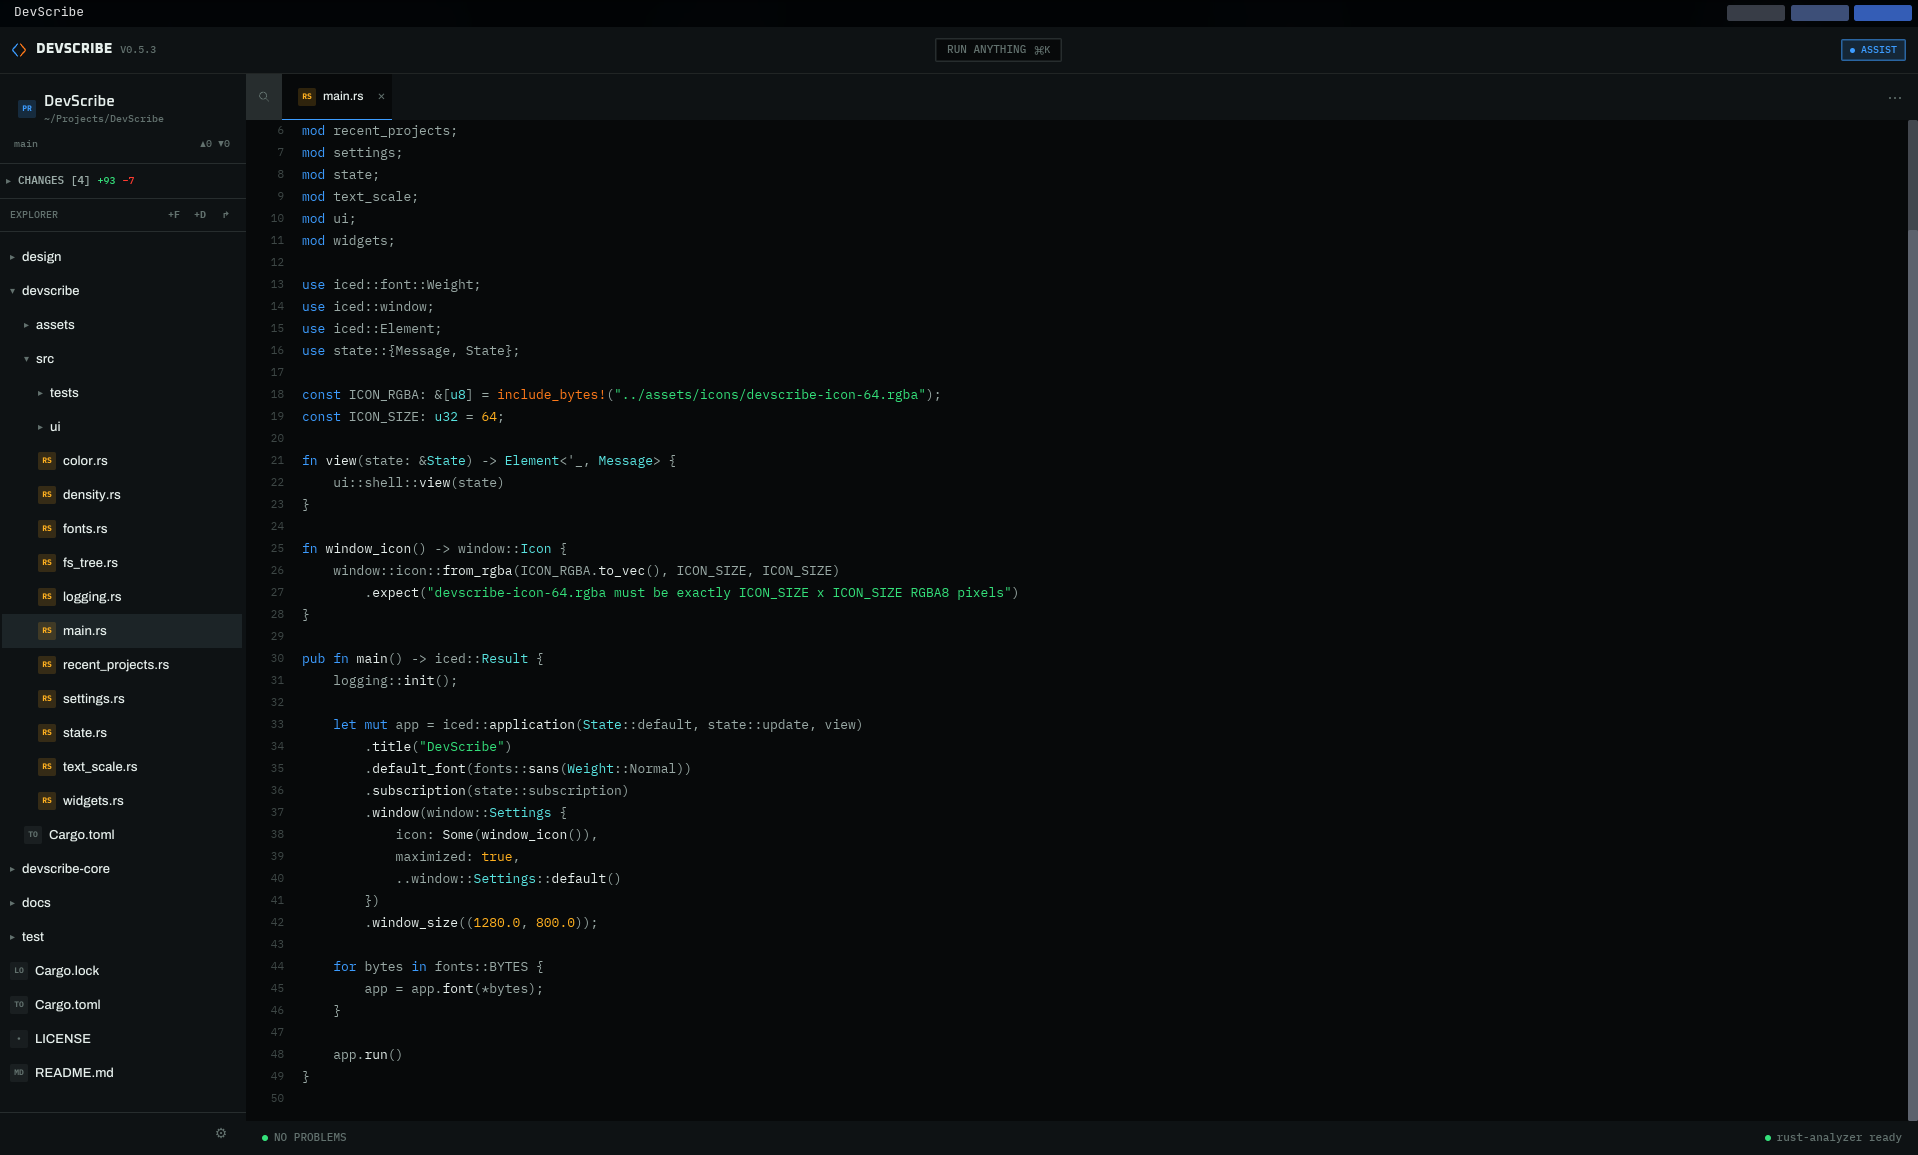
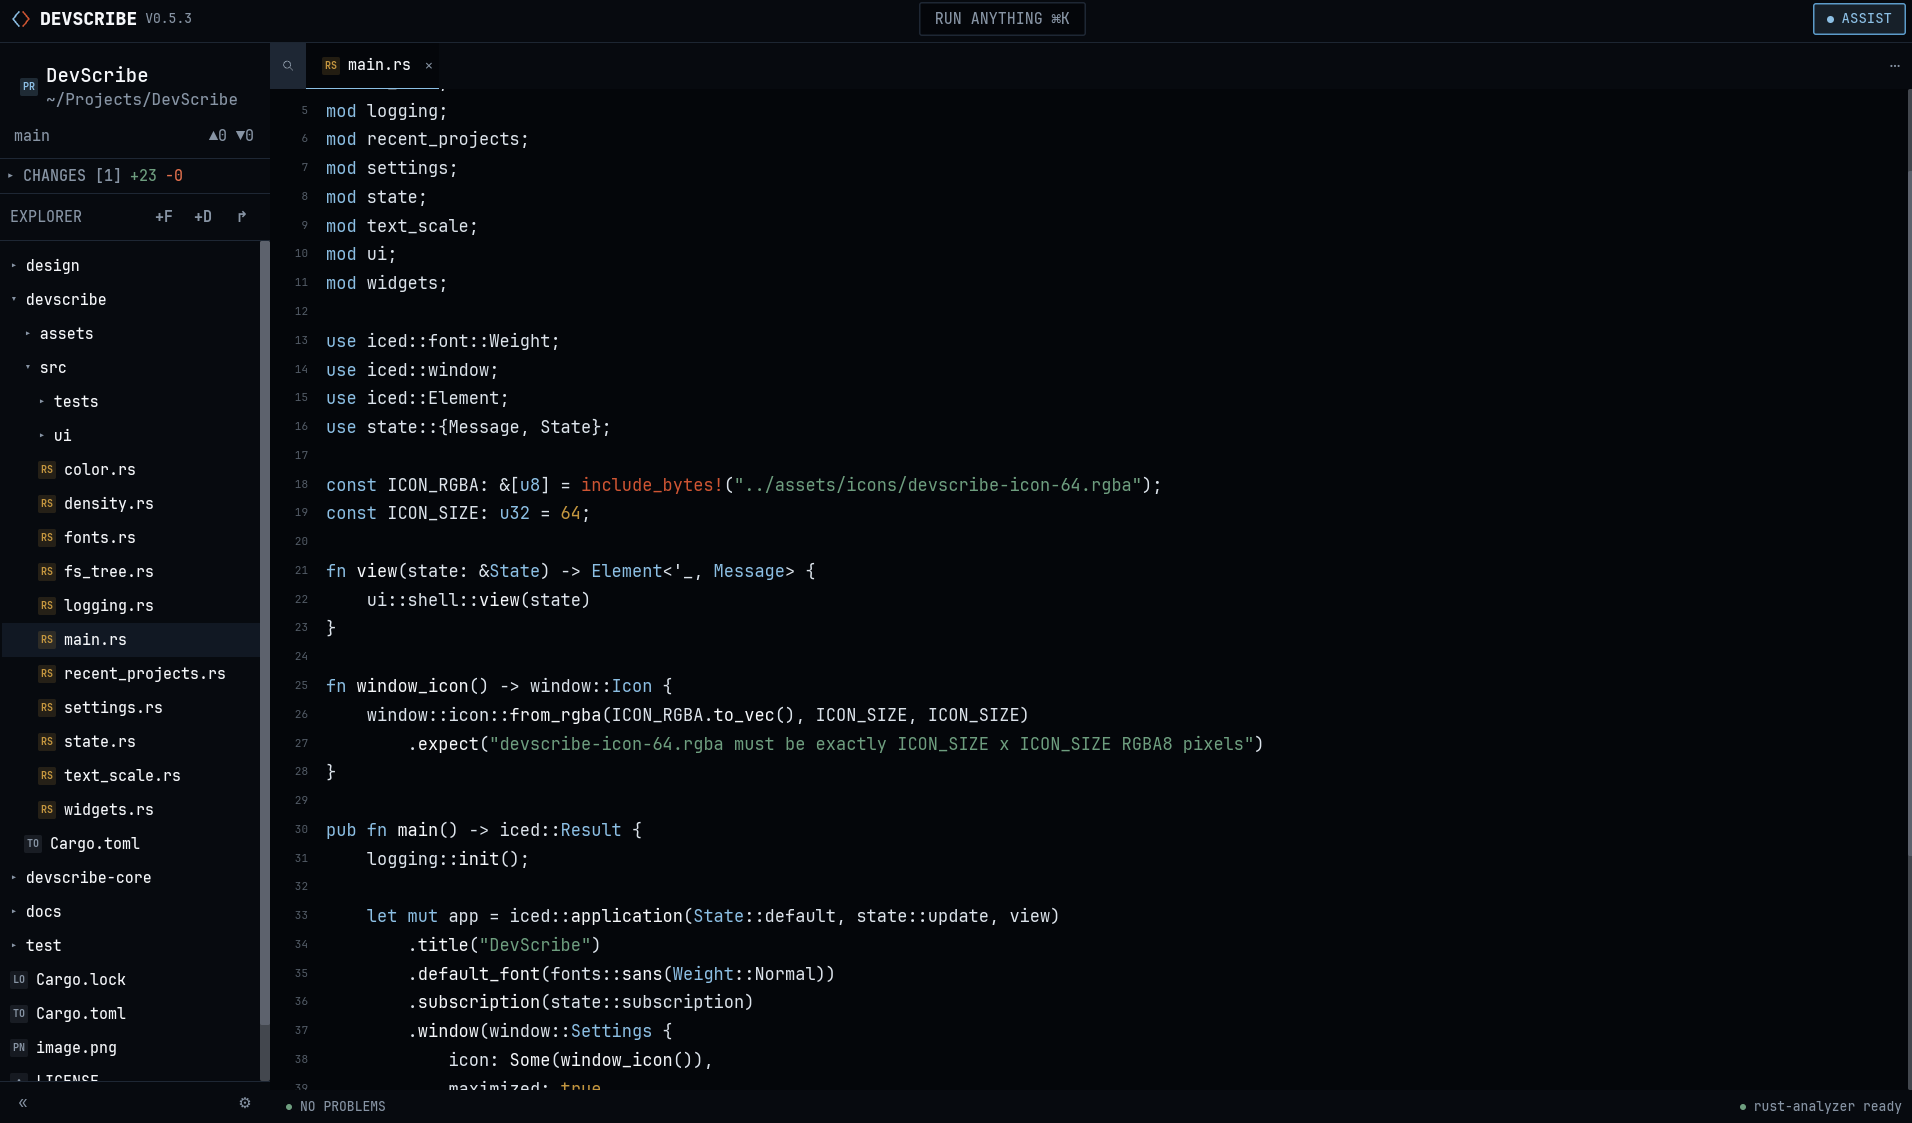
readme update

diff --git a/docs/differences-and-roadmap.md b/docs/differences-and-roadmap.md
@@ -116,6 +116,29 @@ anchored to sidebar content that's about to disappear). New tests:
 `state::tests::collapse_sidebar_sets_collapsed_and_closes_menus_anchored_to_it`,
 `expand_sidebar_clears_collapsed_without_touching_other_state`.
 
+**Persist every Settings-panel value, not just theme/accent**: previously
+only `theme_mode`/`accent` survived a restart (`settings::save_theme`) —
+density, UI font scale, editor font size, and the Explorer/Editor/Toolchains
+toggles (`git_status_in_tree`, `problem_lens_enabled`, `save_on_focus_loss`,
+`lsp_enabled`) all silently reset to their defaults every launch. Generalized
+`settings.rs` to a single `Settings` struct covering everything the settings
+panel exposes, with one `settings::save`/`settings::load` pair instead of
+the old theme-only `save_theme`; `state.rs` gained one choke-point,
+`persist_settings(state)`, called at the end of every settings-changing
+`Message` *and* `PaletteAction` arm (the command palette's own
+increase/decrease-font-size and problem-lens-toggle actions bypassed the
+`Message` handlers entirely and would otherwise have kept not persisting).
+Each field now defaults independently on load (`#[serde(default...)]` per
+`SettingsFile` field) rather than the whole file being rejected if one enum
+key doesn't parse — a deliberate loosening from the Maho migration's
+whole-file-reset behavior, since going forward, adding a new persisted
+field shouldn't reset everyone's already-saved theme/accent just because it
+wasn't there yet. New tests:
+`settings::tests::save_to_and_load_from_round_trips_every_field`,
+`load_from_a_partial_file_defaults_only_the_missing_fields`,
+`load_from_a_pre_maho_key_defaults_every_field_not_a_panic` (updated from
+the old "returns `None`" expectation), `density_key_round_trips_through_density_from_key_for_every_density`.
+
 ## Phased plan for remaining work
 
 Sequencing rationale: multi-tab support touches the data model that
